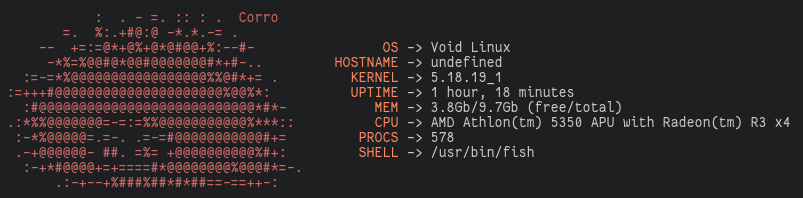
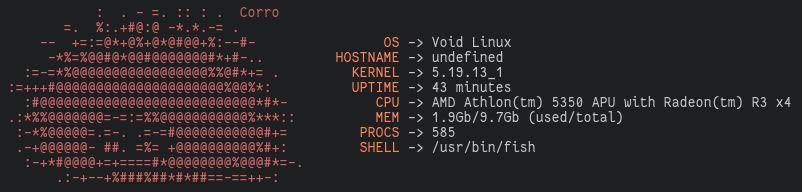
Memory info is more precise now!

Changed region(s): [[0.0, 0.0312, 0.3741, 0.9688], [0.4052, 0.1875, 0.9975, 0.8125]]

diff --git a/src/get_infos.rs b/src/get_infos.rs
@@ -9,6 +9,8 @@ use sys_info::{
 
 use std::process::Command;
 
+use std::cmp::Ordering;
+
 use sysinfo::{
     CpuExt,
     SystemExt,
@@ -21,8 +23,16 @@ pub fn all_infos(color: &str) -> String {
     let get_type = linux_os_release().unwrap().pretty_name.unwrap();
 
     let total_mem:f32 = (mem_info().unwrap().total/102400) as f32 / 10.0;
-    let free_mem:f32 = (mem_info().unwrap().free/102400) as f32 / 10.0;
+    let used_mem = (mem_info().unwrap().total - (mem_info().unwrap().free + mem_info().unwrap().buffers + mem_info().unwrap().cached)) / 1024;
 
+    let used_mem: String = match used_mem.cmp(&1000) {
+        Ordering::Equal | Ordering::Greater => {
+            format!("{}Gb", (used_mem/100) as f32 / 10.0)
+        },
+        Ordering::Less => {
+            format!("{}Mb", used_mem)
+        }
+    };
     let host = hostname().unwrap();
 
     let kernel = os_release().unwrap();
@@ -39,8 +49,8 @@ pub fn all_infos(color: &str) -> String {
 {color}HOSTNAME\x1b[0m -> {host}
   {color}KERNEL\x1b[0m -> {kernel}
   {color}UPTIME\x1b[0m -> {uptime}
-     {color}MEM\x1b[0m -> {free_mem}Gb/{total_mem}Gb (free/total)
      {color}CPU\x1b[0m -> {cpu}
+     {color}MEM\x1b[0m -> {used_mem}/{total_mem}Gb (used/total)
    {color}PROCS\x1b[0m -> {procs}
    {color}SHELL\x1b[0m -> {shell}
     ")
